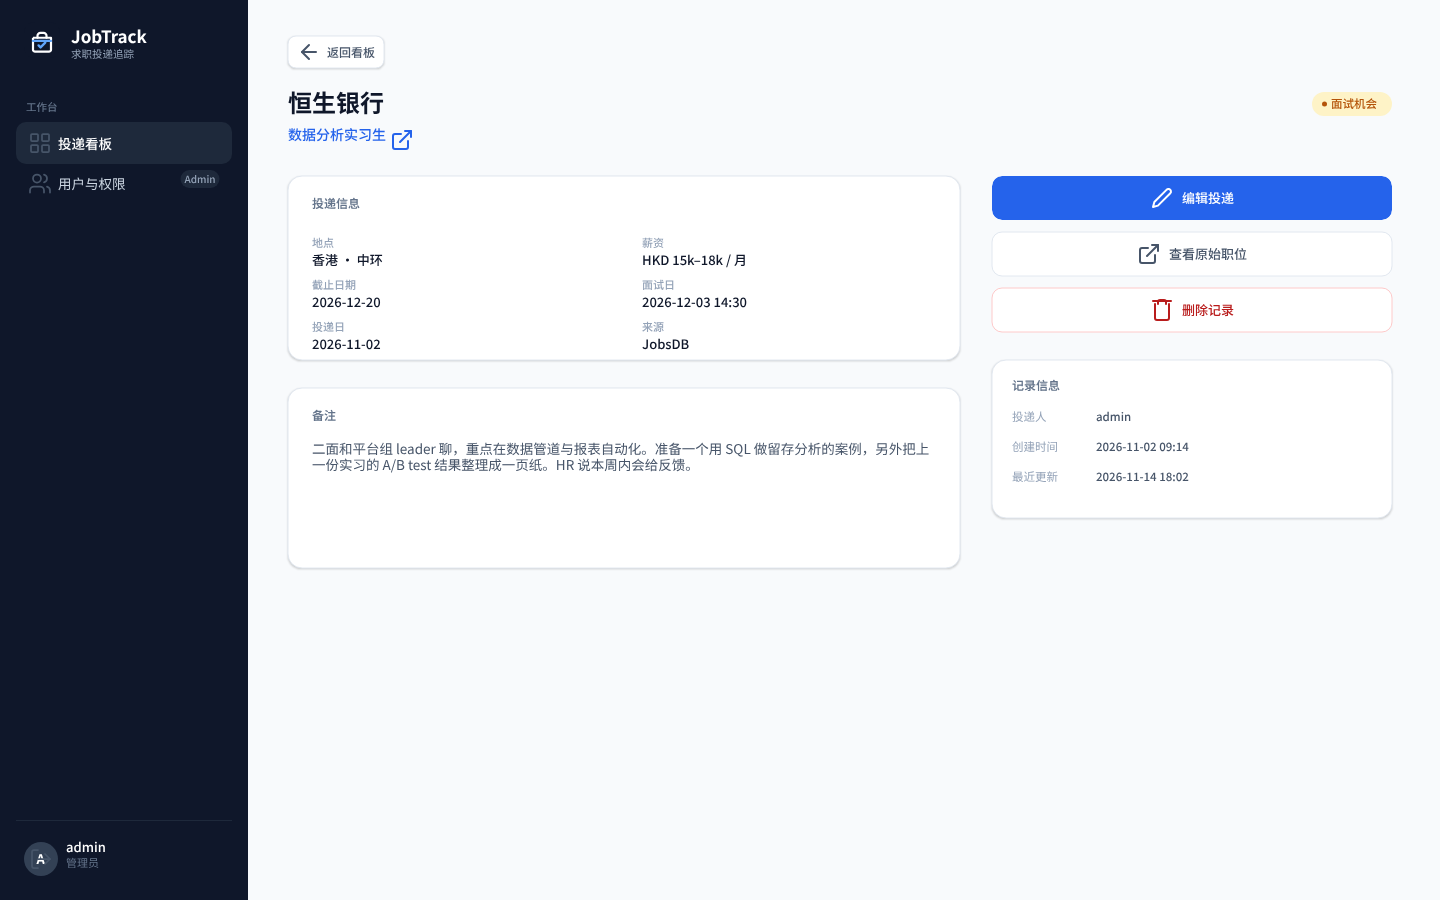
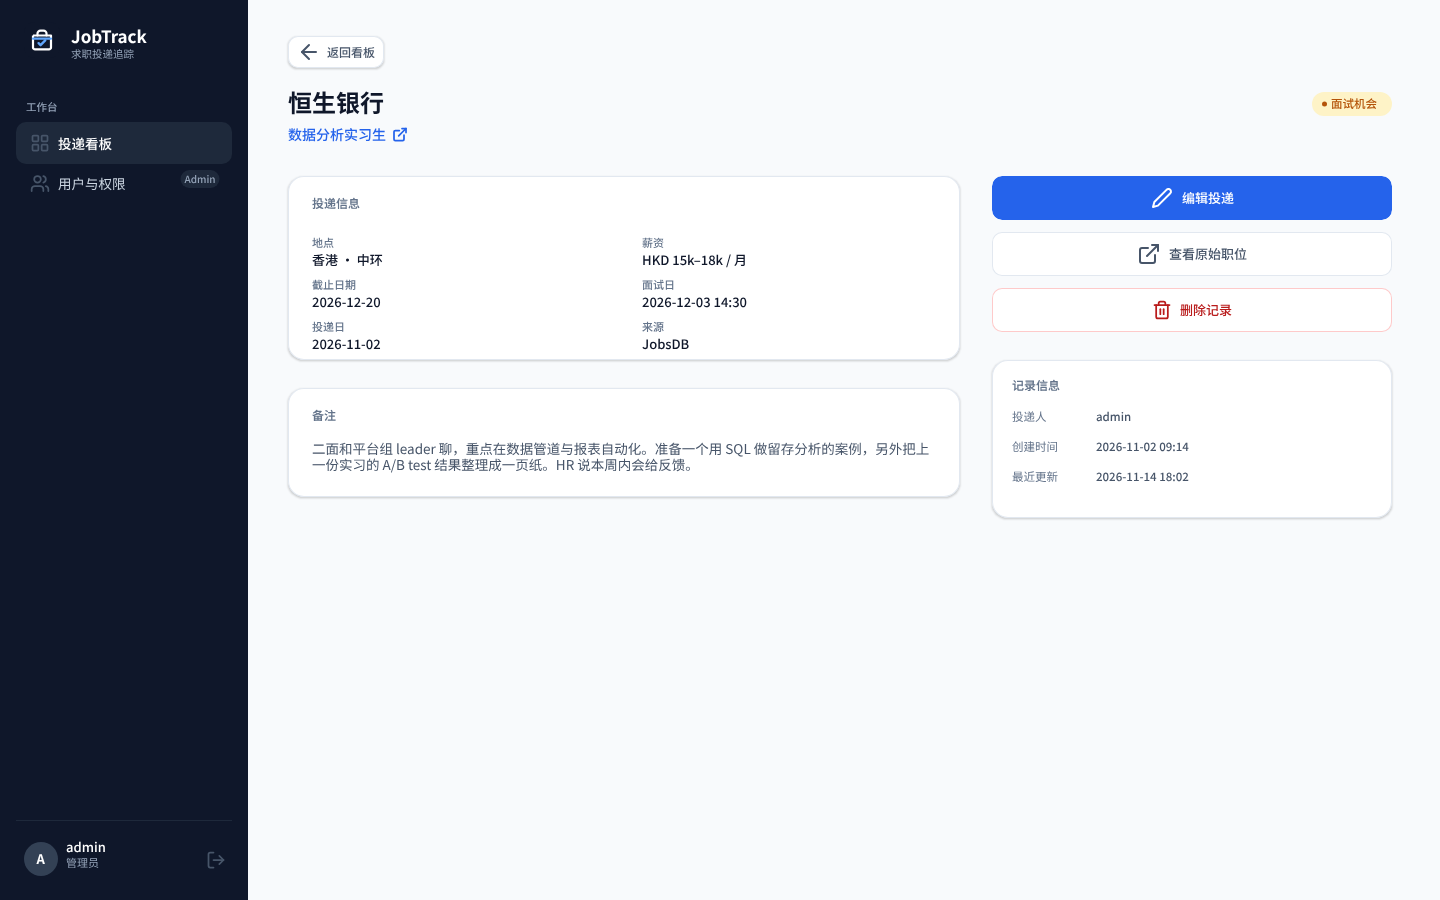
design: dark theme, AA contrast pass and aligned layout (#30)
* design: light-mode component system, token-bound colors/typography, AA contrast, aligned layout

* design: align content grid to 288-1392, center button content, tidy component library

* design: remove stray login badge, symmetric banner padding, final alignment pass

* design: shift card contents with the 12px grid so every column keeps 18px padding

* design: use a text check on save buttons, square card padding on mobile, align card title block

* docs: sync token count after color token completion

* docs: describe the panel-based component library layout

* design: add dark theme, AA contrast pass, and alignment fixes

Changed region(s): [[0.7812, 0.3111, 0.875, 0.3733], [0.2188, 0.3111, 0.25, 0.3422], [0.0, 0.0311, 0.0312, 0.0622]]

diff --git a/public/css/app.css b/public/css/app.css
@@ -8,7 +8,7 @@
   --ink: #0f172a;
   --body: #475569;
   --muted: #64748b;
-  --faint: #94a3b8;
+  --faint: #64748b;
 
   --line: #e2e8f0;
   --line-strong: #cbd5e1;

diff --git a/docs/ui-design.md b/docs/ui-design.md
@@ -8,14 +8,15 @@
 > **公开链接：** _待填 — 在查看视图点 `Share` → `Get link`_
 >
 > **画板导出 PNG：** [`draft/design/penpot/`](../draft/design/penpot)，12 张画板图
-> （1:1 实际尺寸：1440×900 / 390×844 / 882×1242）+ 1 张总览板。
+> （1:1 实际尺寸：1440×900 / 390×844）+ 1 张总览板；`dark/` 下是同名的暗色一套。
 
 This is the **design direction** for the preliminary report, not a finished
 product. Twelve boards cover every screen at both breakpoints (1440×900 desktop,
 390×844 mobile) plus the two dialogs, each at both sizes; the card grid reflows
 from 3 columns to one, the admin table becomes stacked user cards, and the
-detail page drops its right rail into a bottom action bar. A thirteenth frame,
-`13 Component Library`, documents the library.
+detail page drops its right rail into a bottom action bar. The component
+masters live on the file's `Components` page and are not duplicated on the
+screens page.
 
 ![JobTrack — all boards at a glance](../draft/design/penpot/00-overview.png)
 
@@ -119,37 +120,126 @@ exported straight from the Penpot right-hand panel. The checked-in copies in
 
 `12-delete-confirm-modal-mobile.png` · 390×844
 
-### 13 · Component Library
-
-![13 Component Library](../draft/design/penpot/13-component-library.png)
-
-`13-component-library.png` · 882×1242
-
-`00-overview.png` (1388×3440) is exported from the `00 Overview — All Boards`
-board itself: desktop 2×2, the two desktop dialogs, the mobile row, the two
-mobile dialogs, then the component library. Each cell is a linked image fill of
-the latest per-board export, so the overview and the individual boards cannot
-drift apart.
+`00-overview.png` (1388×2700) is exported from the `00 Overview — All Boards`
+board itself: desktop 2×2, the two desktop dialogs, the mobile row, then the
+two mobile dialogs. Each cell is an image fill taken from the latest per-board
+export; refresh both overviews whenever a board changes. Its dark
+twin, `00 Overview — Dark`, carries the same 12 cells in the same positions and
+is exported to `dark/00-overview.png`.
 
 ## Design tokens
 
-The Penpot file has a `JobTrack Core` token set (58 tokens) and matching
-library styles. Shape fills, font size/weight/family, radius, stroke width and
-spacing bind to these tokens, so a palette change propagates.
+The Penpot file has a `JobTrack Core` token set plus two colour sets:
+
+```text
+JobTrack Core   50 shared tokens (typography, radius, spacing, sizing, weights, on-dark colours)
+Light           29 colour tokens (light values)
+Dark            29 colour tokens (dark values, same names)
+themes          Light = [Core, Light]   Dark = [Core, Dark]
+```
+
+Shapes bind **by token name** (e.g. `color-surface`), so switching the theme
+re-resolves every fill, stroke and text colour without duplicating boards.
+Typography composites: `type-h1/h2/title/body/body-medium/meta/meta-medium`.
 
 | Token | Value |
 |---|---|
 | `canvas` | `#F8FAFC` |
 | `surface` | `#FFFFFF` |
 | `line` | `#E2E8F0` |
-| `ink` / `body` / `muted` / `faint` | `#0F172A` / `#475569` / `#64748B` / `#94A3B8` |
+| `control-line` (input borders) | `#74839B` |
+| `switch-off` / `switch-knob` | `#74839B` / `#FFFFFF` |
+| `ink` / `body` / `muted` / `faint` | `#0F172A` / `#475569` / `#64748B` / `#64748B` |
 | `brand` / `brand-soft` | `#2563EB` / `#EFF6FF` |
 | applied | `#EFF6FF` / `#1D4ED8` |
 | interviewing | `#FEF3C7` / `#B45309` |
 | offer | `#D1FAE5` / `#047857` |
 | rejected | `#FEE2E2` / `#B91C1C` |
-| radius | 8 / 10 / 14 / pill |
+| radius | 6 / 10 / 12 / 16 / pill |
 | icon scale | 16 inline · 18 nav/input · 20 tab bar · 24 FAB |
+
+Two theme-independent colours sit in `JobTrack Core`, not in the colour sets,
+because the shell they cover never changes with the theme:
+
+| Token | Value | Used by |
+|---|---|---|
+| `on-dark` | `#F8FAFC` | active filter chip label + count |
+| `on-dark-muted` | `#94A3B8` | sidebar section label, Admin badge, user role, login pitch / stat labels, copyright |
+
+The shell's primary text (brand, active nav label, username, login headline and
+stat values) stays literal `#FFFFFF` at 17.85:1, and the idle nav label is
+`#CBD5E1` at 12.02:1 — both already clear AA without a token.
+
+Text and UI contrast was measured against WCAG AA: body `#475569` 7.6:1, muted/faint
+`#64748B` 4.8:1, white on brand `#2563EB` 5.2:1, white on danger `#DC2626` 4.8:1, and all
+four status pills 4.5–6.2:1. The former `#94A3B8` faint tone was retired from the light
+palette (2.6:1 on white) and survives only as `on-dark-muted` on the `#0F172A` shell,
+where it measures 6.96:1. Control borders (`#74839B`) and the switch off-track clear
+the 3:1 non-text minimum as well.
+
+## Dark mode
+
+`Light` dominates the deliverable; `dark/` holds the same 12 boards exported with
+the `Dark` theme active. The palettes are token values, so both sets come from the
+same boards:
+
+| Role | Light | Dark |
+|---|---|---|
+| canvas | `#F8FAFC` | `#0B1220` |
+| surface | `#FFFFFF` | `#111A2E` |
+| elevated (dialogs) | `#FFFFFF` | `#18233A` |
+| ink | `#0F172A` | `#F1F5F9` |
+| body | `#475569` | `#CBD5E1` |
+| muted | `#64748B` | `#94A3B8` |
+| line / line-strong | `#E2E8F0` / `#CBD5E1` | `#1E2A44` / `#334155` |
+| brand | `#2563EB` | `#2563EB` |
+| brand-text (links, roles) | `#2563EB` | `#60A5FA` |
+| control-line (input border) | `#74839B` | `#74839B` |
+| switch off-track / knob | `#74839B` / `#FFFFFF` | `#74839B` / `#FFFFFF` |
+| ok / warn / bad | `#047857` / `#B45309` / `#B91C1C` | `#34D399` / `#FBBF24` / `#F87171` |
+
+The sidebar and the login brand panel keep a fixed `#0F172A` background in both
+modes; only their secondary text swaps to the theme-independent `on-dark-muted`,
+because the theme's `muted` (`#64748B`) only reaches 3.75:1 on that navy — close
+enough to look intentional, far enough to fail AA at 11–14px.
+
+### Contrast
+
+Every text pair clears WCAG AA (4.5:1) and every control boundary clears the
+non-text minimum (3:1). Worst-case pairs, measured from the token values:
+
+| Pair | Light | Dark |
+|---|---|---|
+| ink on canvas / surface | 17.06 / 17.85 | 17.09 / 15.83 |
+| body on surface | 7.58 | 11.68 |
+| muted on surface | 4.76 | 6.76 |
+| white on brand | 5.17 | 5.17 |
+| white on danger | 4.83 | 4.83 |
+| link / role text on surface | 5.17 | 6.82 |
+| status text on its soft fill | 4.51–6.16 | 5.06–8.97 |
+| input border (`color-control-line`) | 3.84 | 4.51 |
+| switch off-track vs surface | 3.84 | 4.51 |
+| switch knob vs off-track | 3.84 | 3.84 |
+| switch on-track / knob | 5.17 | 5.17 |
+| sidebar secondary text (`on-dark-muted` on `#0F172A`) | 6.96 | 6.96 |
+| active chip label / count (`on-dark` on brand) | 4.94 | 4.94 |
+
+Five adjustments came out of this pass: links moved off `color-brand` onto a
+separate `color-brand-text` (dark `#60A5FA`, 6.82:1), the input border moved off
+`line` onto `color-control-line` `#74839B` (because `#E2E8F0` on white is 1.23:1
+and `#1E2A44` on the dark field is 1.25:1 — neither is a visible boundary), and
+switch knobs moved off `color-surface` onto a fixed `color-switch-knob`, which
+had turned the knob `#111A2E` on a `#334155` track (1.5:1) in dark mode. The
+active filter chip's label and count were still grey on blue (1.09:1) and now
+use `on-dark` (4.94:1), and the shell's secondary text moved onto
+`on-dark-muted` (3.75:1 → 6.96:1). Two fills were also corrected: the search
+field was bound to `color-line` (a grey block in light mode) and now uses
+`color-surface`, and the admin banner moved to `color-brand-soft` with
+`color-body` copy so its explanation is 7.58:1 instead of 3.86:1.
+
+`draft/design/penpot/dark/` mirrors the light exports, including its own
+`00-overview.png`; both overviews are generated by switching the theme and
+re-exporting, never by hand.
 
 ## Screen notes
 
@@ -167,10 +257,10 @@ spacing bind to these tokens, so a palette change propagates.
 
 ## Component library
 
-`13 Component Library` on the screens page is the visual spec; the **masters**
-live in the file's component library (Assets panel), split between that frame
-(the four status badges) and a dedicated `Components` page (the rest), because
-Penpot cannot move layers across pages.
+The component **masters** live on the file's `Components` page (hidden in view
+mode); the screens page only carries instances. The `Components` page is laid
+out on a 1200px grid as labelled white panels: `BUTTONS`, `PAGE BUTTONS`,
+`SHELLS`, `INPUTS`, `NAV & BRAND`, `ICONS`, and `STATUS BADGES`.
 
 Badges are real components and every badge on every screen is an instance:
 
@@ -197,7 +287,7 @@ are a real interactive variant set with `Variant` and `State` properties:
 | `drawer-shell` | mobile bottom sheet with grabber, rounded top and footer |
 | `app-icon` | shared briefcase + progress-check brand mark |
 
-That is 33 component sets in the file library: 19 icon components, 3 icon-button variant sets (9 states), and the badges, chips, fields, shells and app icon.
+That is 37 component sets in the file library: 19 icon components, 3 state-variant button sets (9 states), 3 single button components used by the pages (`btn-primary` / `btn-save` / `btn-danger`), and the badges, chips, fields, shells and app icon.
 Component boards on the `Components`
 page are marked "hide in view mode", so the viewer only shows screens and the
 two dialogs.
